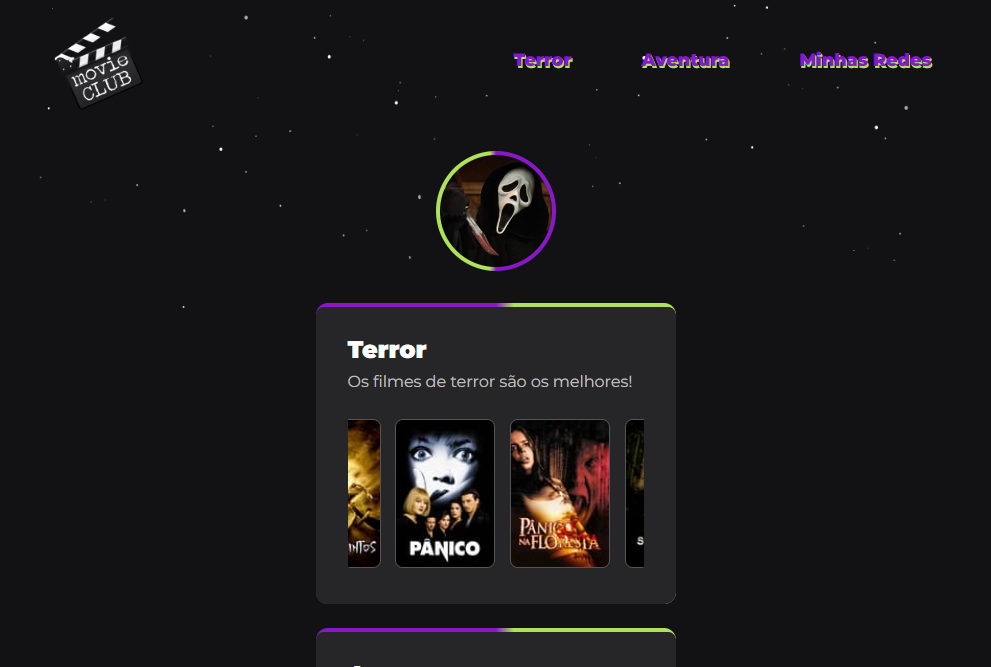
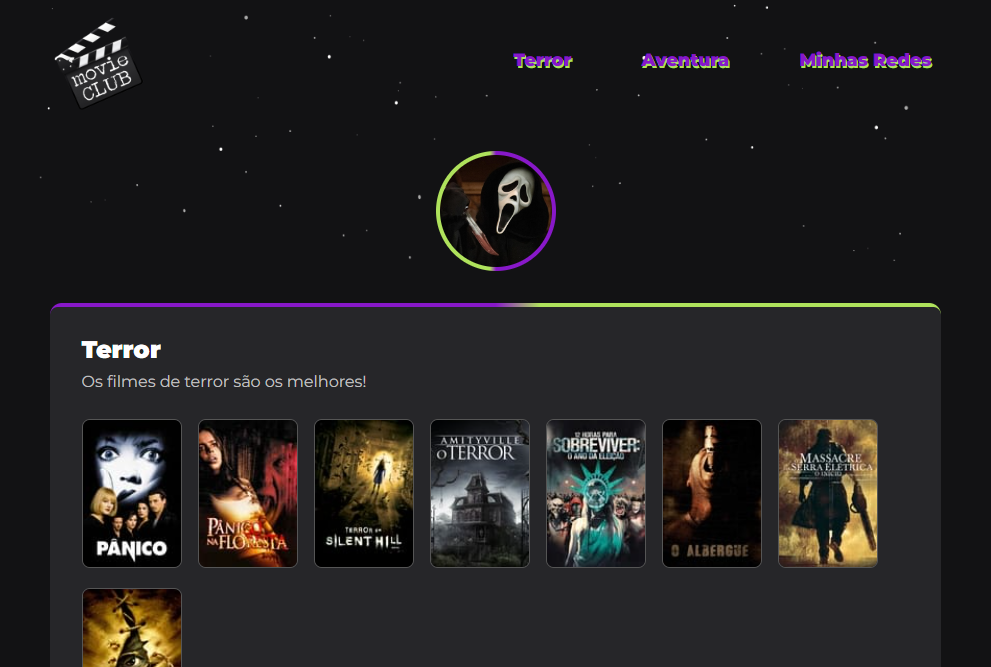
removed swipper

diff --git a/index.html b/index.html
@@ -6,13 +6,7 @@
     <meta name="viewport" content="width=device-width, initial-scale=1.0">
     <link rel="shortcut icon" href="assets/film.png" type="image/x-icon">
     <link rel="stylesheet" href="css/style.css">
-    
     <title>My movies</title>
-    <!-- Link Swiper's CSS -->
-    <link
-      rel="stylesheet"
-      href="https://cdn.jsdelivr.net/npm/swiper/swiper-bundle.min.css"
-    />
 </head>
 <body>
     <nav id="nav">
@@ -42,50 +36,48 @@
             <div>
                 <h2>Terror</h2>
                 <p>Os filmes de terror são os melhores!</p>
-                <div class="swiper mySwiper">
-                    <ul class="swiper-wrapper">
-                        <li class="swiper-slide">
-                            <a href="https://www.themoviedb.org/movie/4232" target="_blank">
-                                <img src="https://www.themoviedb.org/t/p/w94_and_h141_bestv2/cJj2gYzkPFSqYGGOhfLgeANlXkB.jpg" alt="Pânico">
-                            </a>
-                        </li>
-                        <li class="swiper-slide">
-                            <a href="https://www.themoviedb.org/movie/9902" target="_blank">
-                                <img src="https://www.themoviedb.org/t/p/w94_and_h141_bestv2/12YCnydCQxjbNTDPHkNIqUpjHMD.jpg" alt="Pânico na floresta">
-                            </a>
-                        </li>
-                        <li class="swiper-slide">
-                            <a href="https://www.themoviedb.org/movie/588" target="_blank">
-                                <img src="https://www.themoviedb.org/t/p/w94_and_h141_bestv2/pg39SwqpfSXiC6dVl6leFpFmJML.jpg" alt="Terror em silent hill">
-                            </a>
-                        </li>
-                        <li class="swiper-slide">
-                            <a href="https://www.themoviedb.org/movie/410537" target="_blank">
-                                <img src="https://www.themoviedb.org/t/p/w94_and_h141_bestv2/xJCkU5RnX28I2h1em2HVdfp406v.jpg" alt="Amityville, o terror">
-                            </a>
-                        </li>
-                        <li class="swiper-slide">
-                            <a href="https://www.themoviedb.org/movie/316727" target="_blank">
-                                <img src="https://www.themoviedb.org/t/p/w94_and_h141_bestv2/41NT5TCXWnlg2vxtVZz8uFlhHca.jpg" alt="12 horas para sobreviver: O ano de eleição">
-                            </a>
-                        </li>
-                        <li class="swiper-slide">
-                            <a href="https://www.themoviedb.org/movie/1690" target="_blank">
-                                <img src="https://www.themoviedb.org/t/p/w94_and_h141_bestv2/dOpGaWfM9k46fzG3B5PfgSun5Om.jpg" alt="O albergue">
-                            </a>
-                        </li>
-                        <li class="swiper-slide">
-                            <a href="https://www.themoviedb.org/movie/10781" target="_blank">
-                                <img src="https://www.themoviedb.org/t/p/w94_and_h141_bestv2/a6oqQberLAI2KWkYEz6c4gP2nIk.jpg" alt="O massacre da serra elétrica">
-                            </a>
-                        </li>
-                        <li class="swiper-slide">
-                            <a href="https://www.themoviedb.org/movie/8922" target="_blank">
-                                <img src="https://www.themoviedb.org/t/p/w94_and_h141_bestv2/4deKiUXWqyATIEKCBSjRxCOLvu0.jpg" alt="Olhos famintos">
-                            </a>
-                        </li>
-                    </ul>
-                </div>
+                <ul>
+                    <li>
+                        <a href="https://www.themoviedb.org/movie/4232" target="_blank">
+                            <img src="https://www.themoviedb.org/t/p/w94_and_h141_bestv2/cJj2gYzkPFSqYGGOhfLgeANlXkB.jpg" alt="Pânico">
+                        </a>
+                    </li>
+                    <li>
+                        <a href="https://www.themoviedb.org/movie/9902" target="_blank">
+                            <img src="https://www.themoviedb.org/t/p/w94_and_h141_bestv2/12YCnydCQxjbNTDPHkNIqUpjHMD.jpg" alt="Pânico na floresta">
+                        </a>
+                    </li>
+                    <li>
+                        <a href="https://www.themoviedb.org/movie/588" target="_blank">
+                            <img src="https://www.themoviedb.org/t/p/w94_and_h141_bestv2/pg39SwqpfSXiC6dVl6leFpFmJML.jpg" alt="Terror em silent hill">
+                        </a>
+                    </li>
+                    <li>
+                        <a href="https://www.themoviedb.org/movie/410537" target="_blank">
+                            <img src="https://www.themoviedb.org/t/p/w94_and_h141_bestv2/xJCkU5RnX28I2h1em2HVdfp406v.jpg" alt="Amityville, o terror">
+                        </a>
+                    </li>
+                    <li>
+                        <a href="https://www.themoviedb.org/movie/316727" target="_blank">
+                            <img src="https://www.themoviedb.org/t/p/w94_and_h141_bestv2/41NT5TCXWnlg2vxtVZz8uFlhHca.jpg" alt="12 horas para sobreviver: O ano de eleição">
+                        </a>
+                    </li>
+                    <li>
+                        <a href="https://www.themoviedb.org/movie/1690" target="_blank">
+                            <img src="https://www.themoviedb.org/t/p/w94_and_h141_bestv2/dOpGaWfM9k46fzG3B5PfgSun5Om.jpg" alt="O albergue">
+                        </a>
+                    </li>
+                    <li>
+                        <a href="https://www.themoviedb.org/movie/10781" target="_blank">
+                            <img src="https://www.themoviedb.org/t/p/w94_and_h141_bestv2/a6oqQberLAI2KWkYEz6c4gP2nIk.jpg" alt="O massacre da serra elétrica">
+                        </a>
+                    </li>
+                    <li>
+                        <a href="https://www.themoviedb.org/movie/8922" target="_blank">
+                            <img src="https://www.themoviedb.org/t/p/w94_and_h141_bestv2/4deKiUXWqyATIEKCBSjRxCOLvu0.jpg" alt="Olhos famintos">
+                        </a>
+                    </li>
+                </ul>
             </div>
         </section>
 
@@ -93,25 +85,23 @@
             <div>
                 <h2>Aventura</h2>
                 <p>Pra recordar :)</p>
-                <div class="swiper mySwiper">
-                    <ul class="swiper-wrapper">
-                        <li class="swiper-slide">
-                            <a href="https://www.themoviedb.org/movie/10439" target="_blank">
-                                <img src="https://www.themoviedb.org/t/p/w94_and_h141_bestv2/kIzKIA43hE26HRV77RTYtZwjOSM.jpg" alt="Abracadabra">
-                            </a>
-                        </li>
-                        <li class="swiper-slide">
-                            <a href="https://www.themoviedb.org/movie/10166" target="_blank">
-                                <img src="https://www.themoviedb.org/t/p/w94_and_h141_bestv2/tqOZFKgFtTMhm61skWYGLeMYFfp.jpg" alt="Convenção das bruxas">
-                            </a>
-                        </li>
-                        <li class="swiper-slide">
-                            <a href="https://www.themoviedb.org/movie/8871" target="_blank">
-                                <img src="https://www.themoviedb.org/t/p/w94_and_h141_bestv2/vDtJA6DdwLpwoV60rKLWOCt63gK.jpg" alt="O grinch">
-                            </a>
-                        </li>
-                    </ul>
-                </div>
+                <ul>
+                    <li>
+                        <a href="https://www.themoviedb.org/movie/10439" target="_blank">
+                            <img src="https://www.themoviedb.org/t/p/w94_and_h141_bestv2/kIzKIA43hE26HRV77RTYtZwjOSM.jpg" alt="Abracadabra">
+                        </a>
+                    </li>
+                    <li>
+                        <a href="https://www.themoviedb.org/movie/10166" target="_blank">
+                            <img src="https://www.themoviedb.org/t/p/w94_and_h141_bestv2/tqOZFKgFtTMhm61skWYGLeMYFfp.jpg" alt="Convenção das bruxas">
+                        </a>
+                    </li>
+                    <li>
+                        <a href="https://www.themoviedb.org/movie/8871" target="_blank">
+                            <img src="https://www.themoviedb.org/t/p/w94_and_h141_bestv2/vDtJA6DdwLpwoV60rKLWOCt63gK.jpg" alt="O grinch">
+                        </a>
+                    </li>
+                </ul>
             </div>
         </section>
 
@@ -156,7 +146,6 @@
         <a onclick="toTop()">Voltar</a>
     </div>
 
-    <script src="https://cdn.jsdelivr.net/npm/swiper/swiper-bundle.min.js"></script>
     <script src="js/script.js"></script>
 </body>
 </html>

diff --git a/css/style.css b/css/style.css
@@ -74,7 +74,7 @@ header img {
     border-radius: 50%;
 }
 main {
-    max-width: 360px;
+    max-width: 1040px;
     margin: 32px auto;
     width: 90%;
     display: grid;
@@ -180,11 +180,4 @@ section ul {
     nav li a {
         font-size: 1.3rem;
     }
-}
-/*swipper*/
-section {
-    overflow: hidden;
-}
-section ul {
-    flex-wrap: nowrap;
 }

diff --git a/js/script.js b/js/script.js
@@ -1,8 +1,4 @@
 var topo = document.body
-var swiper = new Swiper(".mySwiper", {
-   slidesPerView: 3,
-   loop:true
-});
 
 function toTop() {
     topo.scrollIntoView({behavior:"smooth"})
